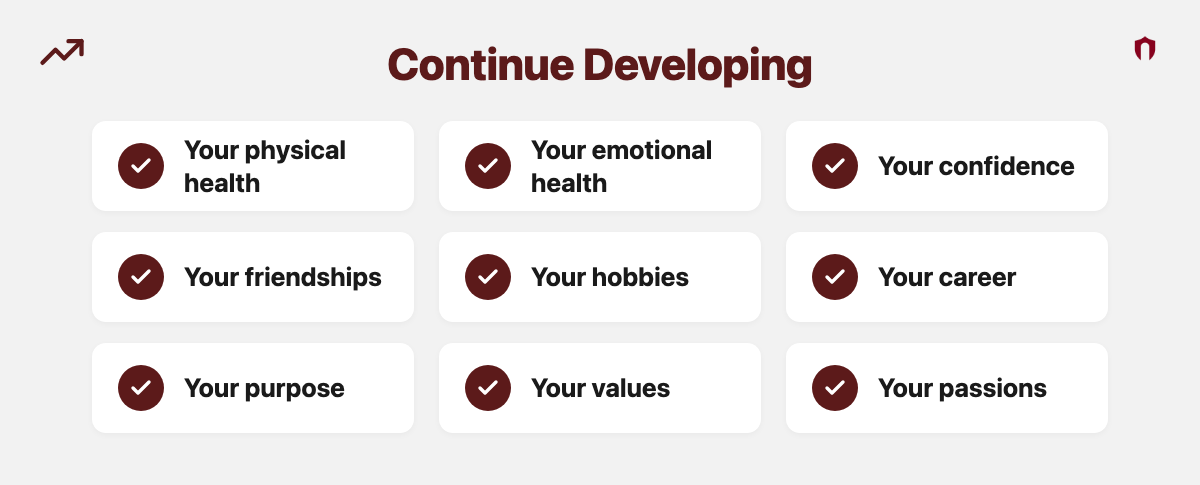
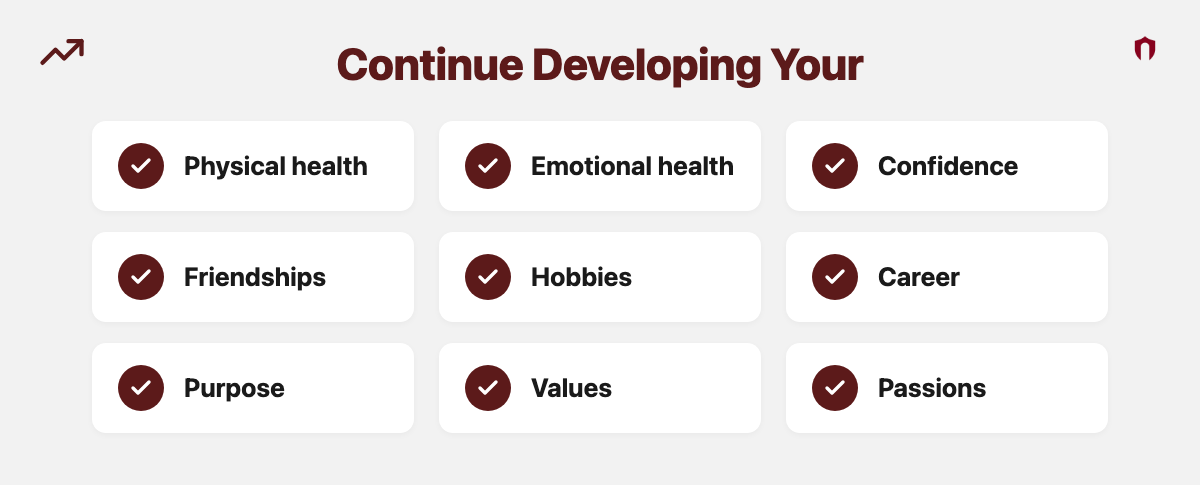
Move Your into the title of the continue developing graphic

diff --git a/topics/breakup.html b/topics/breakup.html
@@ -515,7 +515,7 @@
         <p>Romantic relationships may come and go, friendships change, careers evolve, children grow up.</p>
         <p>Life constantly changes. But there is one relationship that lasts from the day you are born until the day you die - the relationship you have with yourself.</p>
         <p>Investing in yourself isn't selfish, it’s completely logical, and one of the greatest gifts you can give every future relationship you'll ever have.</p>
-        <img src="../images/breakup-continue-developing.png" alt="Continue Developing: your physical health, your emotional health, your confidence, your friendships, your hobbies, your career, your purpose, your values, your passions" style="width:100%; max-width:720px; display:block; margin:0.6rem auto; border-radius: var(--radius); box-shadow: var(--shadow);">
+        <img src="../images/breakup-continue-developing.png" alt="Continue Developing Your: physical health, emotional health, confidence, friendships, hobbies, career, purpose, values, passions" style="width:100%; max-width:720px; display:block; margin:0.6rem auto; border-radius: var(--radius); box-shadow: var(--shadow);">
         <p>A romantic relationship should complement your life, it should never become your entire life.</p>
 
         <p class="module-subtitle"><strong>Loving Again</strong></p>
